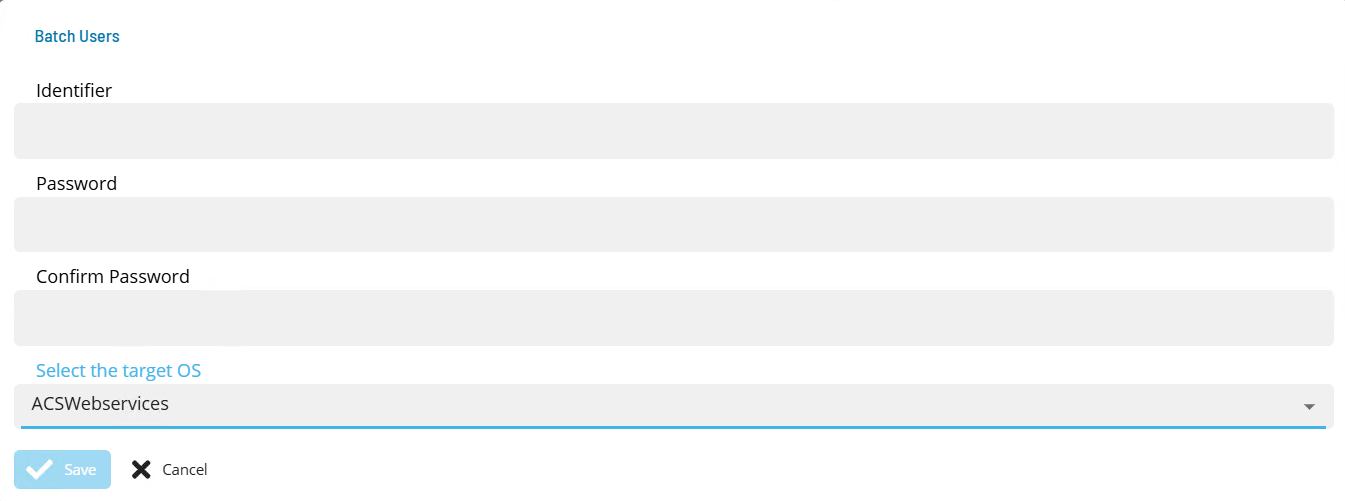
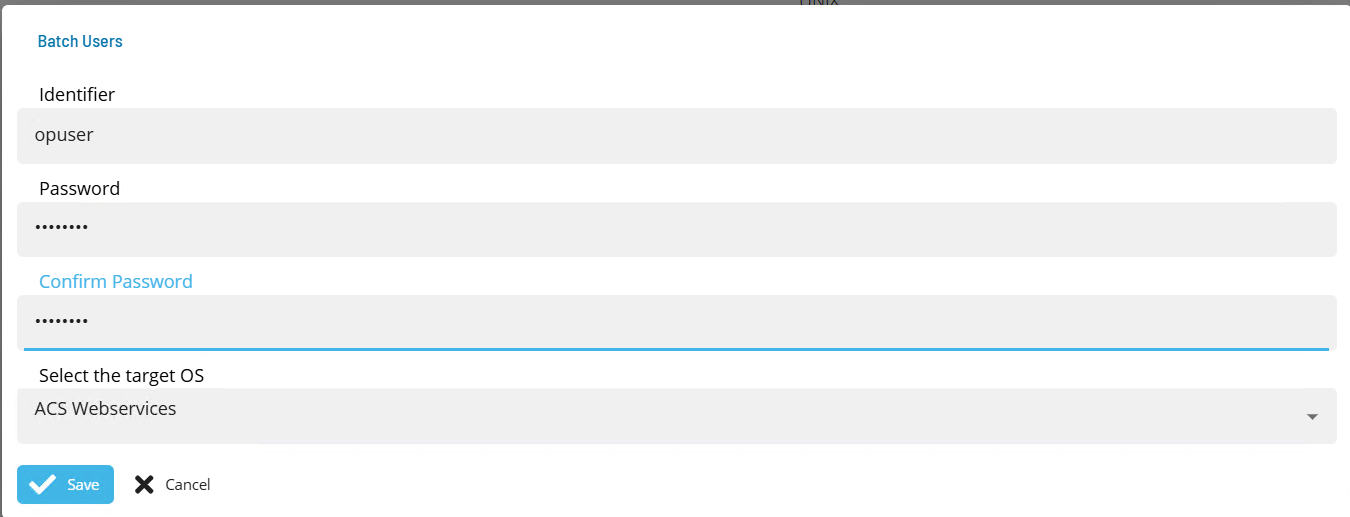
Documentation update

diff --git a/docs/ACSWebservicesOperation.md b/docs/ACSWebservicesOperation.md
@@ -1,16 +1,16 @@
 ---
 slug: '/'
-sidebar_label: 'ACSWebservices Operation'
+sidebar_label: 'ACS Webservices Operation'
 ---
 
-# ACSWebservices Operation
+# ACS Webservices Operation
 
 Once the sma.acs.ACSWebservices plugin has been registered with the OpCon system, it will be possible to perform agent and task definitions.
 All definitions can only be performed using Solution Manager.
 
-## Defining ACSWebservices Batch Users
+## Defining ACS Webservices Batch Users
 
-The ACSWebservices task types BASICTOKEN and OPCONTOKEN uses opCon Batch users to define the user information for these task types.
+The ACS Webservices task types BASICTOKEN and OPCONTOKEN uses opCon Batch users to define the user information for these task types.
 Before creating these task types, ensure that the appropriate Batch Users are created.  
 
 ![Defining a Batch User](../static/img/ws-batch-user.png)
@@ -19,12 +19,12 @@ Before creating these task types, ensure that the appropriate Batch Users are cr
 2.  From the Home page select **Library**
 3.  From the ***Security*** Menu select **Batch Users**.
 4.  Select **+Add** to add a new Batch User.
-5.  Select **ACSWebservices** from the ***Select the target OS*** drop-down list.
+5.  Select **ACS Webservices** from the ***Select the target OS*** drop-down list.
 6.  Enter the User name that will be used to create the token in the **Identifier** field.
 7.  Enter the password of the defined API User in the **Password** and **Confirm** fields.
 8.  Select **Save**.
 
-## Defining ACSWebservices connection
+## Defining ACS Webservices connection
 
 The Agent definition is defined by adding a new ACSWebservices Agent definition using Solution Manager.
 Items defined in red are required values.
@@ -37,8 +37,8 @@ Items defined in red are required values.
 4.  Select **+Add** to add a new agent definition.
 5.  Fill in the agent details
     - Insert a unique name for the connection.
-    - Select **ACSWebservices** from the **Type** drop-down list.
-    - Select **ACSWebservices Settings**
+    - Select **ACS Webservices** from the **Type** drop-down list.
+    - Select **ACS Webservices Settings**
     - In the **OpCon URL** field enter the full url for the associated OpCon Rest-API server.
     - In the **OpCon Token** field enter a valid OpCon application token that will be used to authenticate internal OpCon Rest-API requests.
     - In the **Proxy Url** field enter the full url of the Proxy Server if required when submitting url requests outside the organization.  
@@ -47,7 +47,7 @@ Items defined in red are required values.
 
 ## Defining tasks
 
-The ACSWebservices Connection supports the following task types:
+The ACS Webservices Connection supports the following task types:
 
 TaskType             | Description
 ---------------------|------------
@@ -69,7 +69,7 @@ Data is passed between tasks using schedule instance properties. The ACS environ
 ### BASICTOKEN Task
 
 The BASICTOKEN task is used to set a basic token as a schedule instance property so it can be used to provide authentication by subsequent tasks. 
-The function allows the selection of a ACSWebservices Batch User to provide the base64 encoded authentication string.   
+The function allows the selection of a ACS Webservices Batch User to provide the base64 encoded authentication string.   
 
 ![Defining a BASICTOKEN Master Job](../static/img/ws-basictoken-master-job.png)
 
@@ -80,13 +80,13 @@ The function allows the selection of a ACSWebservices Batch User to provide the 
 5.  Fill in the task details.
     - Select the **Schedule** name from the drop-down list.
     - In the **Name** field enter a unique name for the task within the schedule.
-    - Select **ACSWebservices** from the **Job Type** drop-down list.
+    - Select **ACS Webservices** from the **Job Type** drop-down list.
     - Select **BASICTOKEN** from the **Task Type** drop-down list.
     
 Enter details for Task Type **BASICTOKEN**. 
 
 1.  Select the **Task Details** button.
-2.  In the **Integration Selection** section, select the primary integration which is an ACSWebservices connection previously defined.
+2.  In the **Integration Selection** section, select the primary integration which is an ACS Webservices connection previously defined.
 3.  In the **Authentication** section
     - select a Batch User from the drop-down list.
 4.  In the **Response Variable** section
@@ -95,7 +95,7 @@ Enter details for Task Type **BASICTOKEN**.
 ### OPCONTOKEN Task
 
 The OPCONTOKEN task is used to set an OpCon token as a schedule instance property so it can be used to provide authentication by subsequent tasks. 
-The function allows the selection of a ACSWebservices Batch User to provide the OpCon encoded authentication string.   
+The function allows the selection of a ACS Webservices Batch User to provide the OpCon encoded authentication string.   
 
 ![Defining an OPCONTOKEN Master Job](../static/img/ws-opcontoken-master-job.png)
 
@@ -106,13 +106,13 @@ The function allows the selection of a ACSWebservices Batch User to provide the 
 5.  Fill in the task details.
     - Select the **Schedule** name from the drop-down list.
     - In the **Name** field enter a unique name for the task within the schedule.
-    - Select **ACSWebservices** from the **Job Type** drop-down list.
+    - Select **ACS Webservices** from the **Job Type** drop-down list.
     - Select **OPCONTOKEN** from the **Task Type** drop-down list.
     
 Enter details for Task Type **OPCONTOKEN**. 
 
 1.  Select the **Task Details** button.
-2.  In the **Integration Selection** section, select the primary integration which is an ACSWebservices connection previously defined.
+2.  In the **Integration Selection** section, select the primary integration which is an ACS Webservices connection previously defined.
 3.  In the **Authentication** section
     - In the **URL** field enter the full address of the end point (i.e. https://server:port/api/tokens). 
     - Select a Batch User from the drop-down list.
@@ -139,13 +139,13 @@ TheOAUTH2TOKEN task is used to set an OAuth2 token as a schedule instance proper
 5.  Fill in the task details.
     - Select the **Schedule** name from the drop-down list.
     - In the **Name** field enter a unique name for the task within the schedule.
-    - Select **ACSWebservices** from the **Job Type** drop-down list.
+    - Select **ACS Webservices** from the **Job Type** drop-down list.
     - Select **OAUTH2TOKEN** from the **Task Type** drop-down list.
     
 Enter details for Task Type **OAUTH2TOKEN**. 
 
 1.  Select the **Task Details** button.
-2.  In the **Integration Selection** section, select the primary integration which is an ACSWebservices connection previously defined.
+2.  In the **Integration Selection** section, select the primary integration which is an ACS Webservices connection previously defined.
     - In the **URL** field enter the full address of the end point using global properties (i.e. https://login.microsoftonline.com/[[tenantid]]/oauth2/token). 
 3.  In the **Authentication** section
     - In the **ClientId** field enter the provided client id (use a global or an encrypted global property to safe guard the client id).
@@ -183,7 +183,7 @@ ABC.
 5.  Fill in the task details.
     - Select the **Schedule** name from the drop-down list.
     - In the **Name** field enter a unique name for the task within the schedule.
-    - Select **ACSWebservices** from the **Job Type** drop-down list.
+    - Select **ACS Webservices** from the **Job Type** drop-down list.
     - Select **GET** from the **Task Type** drop-down list.
     
 Enter details for Task Type **GET**. 
@@ -191,7 +191,7 @@ Enter details for Task Type **GET**.
 ![Defining a GET Master Job](../static/img/ws-get-master-job1.png)
 
 1.  Select the **Task Details** button.
-2.  In the **Integration Selection** section, select the primary integration which is an ACSWebservices connection previously defined.
+2.  In the **Integration Selection** section, select the primary integration which is an ACS Webservices connection previously defined.
 3.  In the **Task Configuration** section
     - In **Variables** define name value pairs that can be used for substitution in url and message bodies. 
     - In the **Url** field enter the full address of the end point (i.e. https://server:port/api/tokens). 
@@ -238,7 +238,7 @@ task should be in a 'hold' state.  The remote system would then include the capa
 5.  Fill in the task details.
     - Select the **Schedule** name from the drop-down list.
     - In the **Name** field enter a unique name for the task within the schedule.
-    - Select **ACSWebservices** from the **Job Type** drop-down list.
+    - Select **ACS Webservices** from the **Job Type** drop-down list.
     - Select **POST** from the **Task Type** drop-down list.
     
 Enter details for Task Type **POST**. 
@@ -246,7 +246,7 @@ Enter details for Task Type **POST**.
 ![Defining a POST Master Job](../static/img/ws-post-master-job1.png)
 
 1.  Select the **Task Details** button.
-2.  In the **Integration Selection** section, select the primary integration which is an ACSWebservices connection previously defined.
+2.  In the **Integration Selection** section, select the primary integration which is an ACS Webservices connection previously defined.
 3.  In the **Task Configuration** section
     - In **Variables** define name value pairs that can be used for substitution in url and message bodies. 
     - In the **Url** field enter the full address of the end point (i.e. https://server:port/api/tokens). 
@@ -291,7 +291,7 @@ ABC.
 5.  Fill in the task details.
     - Select the **Schedule** name from the drop-down list.
     - In the **Name** field enter a unique name for the task within the schedule.
-    - Select **ACSWebservices** from the **Job Type** drop-down list.
+    - Select **ACS Webservices** from the **Job Type** drop-down list.
     - Select **PUT** from the **Task Type** drop-down list.
     
 Enter details for Task Type **PUT**. 
@@ -299,7 +299,7 @@ Enter details for Task Type **PUT**.
 ![Defining a PUT Master Job](../static/img/ws-put-master-job1.png)
 
 1.  Select the **Task Details** button.
-2.  In the **Integration Selection** section, select the primary integration which is an ACSWebservices connection previously defined.
+2.  In the **Integration Selection** section, select the primary integration which is an ACS Webservices connection previously defined.
 3.  In the **Task Configuration** section
     - In **Variables** define name value pairs that can be used for substitution in url and message bodies. 
     - In the **Url** field enter the full address of the end point (i.e. https://server:port/api/tokens). 
@@ -344,15 +344,15 @@ ABC.
 5.  Fill in the task details.
     - Select the **Schedule** name from the drop-down list.
     - In the **Name** field enter a unique name for the task within the schedule.
-    - Select **ACSWebservices** from the **Job Type** drop-down list.
-    - Select **PTCH** from the **Task Type** drop-down list.
+    - Select **AC SWebservices** from the **Job Type** drop-down list.
+    - Select **PATCH** from the **Task Type** drop-down list.
     
 Enter details for Task Type **PATCH**. 
 
 ![Defining a PATCH Master Job](../static/img/ws-patch-master-job1.png)
 
 1.  Select the **Task Details** button.
-2.  In the **Integration Selection** section, select the primary integration which is an ACSWebservices connection previously defined.
+2.  In the **Integration Selection** section, select the primary integration which is an ACS Webservices connection previously defined.
 3.  In the **Task Configuration** section
     - In **Variables** define name value pairs that can be used for substitution in url and message bodies. 
     - In the **Url** field enter the full address of the end point (i.e. https://server:port/api/tokens). 
@@ -392,7 +392,7 @@ The DELETE task should have a dependency set on the authentication task.
 5.  Fill in the task details.
     - Select the **Schedule** name from the drop-down list.
     - In the **Name** field enter a unique name for the task within the schedule.
-    - Select **ACSWebservices** from the **Job Type** drop-down list.
+    - Select **ACS Webservices** from the **Job Type** drop-down list.
     - Select **DELETE** from the **Task Type** drop-down list.
     
 Enter details for Task Type **DELETE**. 
@@ -400,7 +400,7 @@ Enter details for Task Type **DELETE**.
 ![Defining a DELETE Master Job](../static/img/ws-delete-master-job.png)
 
 1.  Select the **Task Details** button.
-2.  In the **Integration Selection** section, select the primary integration which is an ACSWebservices connection previously defined.
+2.  In the **Integration Selection** section, select the primary integration which is an ACS Webservices connection previously defined.
 3.  In the **Task Configuration** section
     - In **Variables** define name value pairs that can be used for substitution in url and message bodies. Defining SERVER=DESKTOPA will
     replace the value SERVER in the url and message body with value DESKTOPA.  

diff --git a/docs/ACSAzureWebserviceOperation.md b/docs/ACSAzureWebserviceOperation.md
@@ -3,12 +3,12 @@ slug: '/'
 sidebar_label: 'ACSAzureWebservices Operation'
 ---
 
-# ACSAzureWebservices Operation
+# ACS AzureWebservices Operation
 
 Once the sma.acs.ACSAzureWebservices plugin has been registered with the OpCon system, it will be possible to perform agent and task definitions.
 All definitions can only be performed using Solution Manager.
 
-## Defining ACSAzureWebservices connection
+## Defining ACS AzureWebservices connection
 
 The Agent definition is defined by adding a new ACSAzureWebservices Agent definition using Solution Manager.
 Items defined in red are required values.
@@ -21,15 +21,15 @@ Items defined in red are required values.
 4.  Select **+Add** to add a new agent definition.
 5.  Fill in the agent details
     - Insert a unique name for the connection.
-    - Select **ACSAzureWebservices** from the **Type** drop-down list.
-    - Select **ACSAzureWebservices Settings**
+    - Select **ACS AzureWebservices** from the **Type** drop-down list.
+    - Select **ACS AzureWebservices Settings**
     - The **Azure URL** field contains a default value ***azure.status.microsoft/en-us/status*** which is used as a heartbeat to check if the Azure environment is available. 
 6.  Save the definition changes. 
 7.  Start the connection by selecting the **Change Communication Status** button and selecting **Enable Full Comm.**. 
 
 ## Defining tasks
 
-The ACSAzureWebservices Connection supports the following task types:
+The ACS AzureWebservices Connection supports the following task types:
 
 TaskType             | Description
 ---------------------|------------
@@ -56,7 +56,7 @@ The GetOAuth2Token task is used to get an OAuth2 token and set it as a schedule 
 5.  Fill in the task details.
     - Select the **Schedule** name from the drop-down list.
     - In the **Name** field enter a unique name for the task within the schedule.
-    - Select **ACSAzureWebservices** from the **Job Type** drop-down list.
+    - Select **ACS AzureWebservices** from the **Job Type** drop-down list.
     - Select **GetOAuth2Token** from the **Task Type** drop-down list.
     
 Enter details for Task Type **GetOAuth2Token**. 
@@ -91,13 +91,13 @@ The GetPatToken task is used to set a PAT token as a schedule instance property 
 5.  Fill in the task details.
     - Select the **Schedule** name from the drop-down list.
     - In the **Name** field enter a unique name for the task within the schedule.
-    - Select **ACSAzureWebservices** from the **Job Type** drop-down list.
+    - Select **ACS AzureWebservices** from the **Job Type** drop-down list.
     - Select **GetPatToken** from the **Task Type** drop-down list.
     
 Enter details for Task Type **GetPatToken**. 
 
 1.  Select the **Task Details** button.
-2.  In the **Integration Selection** section, select the primary integration which is an ACSAzureWebservices connection previously defined.
+2.  In the **Integration Selection** section, select the primary integration which is an ACS AzureWebservices connection previously defined.
 3.  In the **Authentication** section, enter a PAT (Personal Action Token) retrieved from the Azure DevOps environment (see https://learn.microsoft.com/en-us/azure/devops/organizations/accounts/use-personal-access-tokens-to-authenticate?view=azure-devops&tabs=Windows for information on how to create a PAT).
 4.  In the **Response Variable** section, define the variable that will contain the PAT token. The format is name=value where the name part will be the schedule instance property name, the value part is ignored. 
 
@@ -115,13 +115,13 @@ A Job Dependency should be defined on a previous **GetPatToken** task.
 5.  Fill in the task details.
     - Select the **Schedule** name from the drop-down list.
     - In the **Name** field enter a unique name for the task within the schedule.
-    - Select **ACSAzureWebservices** from the **Job Type** drop-down list.
+    - Select **ACS AzureWebservices** from the **Job Type** drop-down list.
     - Select **RunDevOpsPipeline** from the **Task Type** drop-down list.
     
 Enter details for Task Type **RunDevOpsPipeline**. Fields marked in red must be provided.
 
 1.  Select the **Task Details** button.
-2.  In the **Integration Selection** section, select the primary integration which is an ACSAzureWebservices connection previously defined.
+2.  In the **Integration Selection** section, select the primary integration which is an ACS AzureWebservices connection previously defined.
 3.  In the **Job Configuration** section enter the following information
     - In the **Azure Url** field enter ***dev.azure.com***.
     - In the **Organization** field enter the name of the DevOps Organization.
@@ -154,13 +154,13 @@ A Job Dependency should be defined on a previous **GetOAuth2Token** task.
 5.  Fill in the task details.
     - Select the **Schedule** name from the drop-down list.
     - In the **Name** field enter a unique name for the task within the schedule.
-    - Select **ACSAzureWebservices** from the **Job Type** drop-down list.
+    - Select **ACS AzureWebservices** from the **Job Type** drop-down list.
     - Select **DownloadBlobStorage** from the **Task Type** drop-down list.
     
 Enter details for Task Type **UploadBlobStorage**. Fields marked in red must be provided.
 
 1.  Select the **Task Details** button.
-2.  In the **Integration Selection** section, select the primary integration which is an ACSAzureWebservices connection previously defined.
+2.  In the **Integration Selection** section, select the primary integration which is an ACS AzureWebservices connection previously defined.
 3.  In the **DownloadAzureBlob** section enter the following information
     - In the **Storage Account** field enter the name of the storage account.
     - In the **Path** field enter the path of the file to be downloaded from the storage area. The value consists of
@@ -184,13 +184,13 @@ A Job Dependency should be defined on a previous **GetOAuth2Token** task.
 5.  Fill in the task details.
     - Select the **Schedule** name from the drop-down list.
     - In the **Name** field enter a unique name for the task within the schedule.
-    - Select **ACSAzureWebservices** from the **Job Type** drop-down list.
+    - Select **ACS AzureWebservices** from the **Job Type** drop-down list.
     - Select **UploadBlobStorage** from the **Task Type** drop-down list.
     
 Enter details for Task Type **UploadBlobStorage**. Fields marked in red must be provided.
 
 1.  Select the **Task Details** button.
-2.  In the **Integration Selection** section, select the primary integration which is an ACSAzureWebservices connection previously defined.
+2.  In the **Integration Selection** section, select the primary integration which is an ACS AzureWebservices connection previously defined.
 3.  In the **UploadAzureBlob** section enter the following information
     - In the **Storage Account** field enter the name of the storage account.
     - In the **Path** field enter the path where the file must be placed within the storage area. The value consists of

diff --git a/docs/index.md b/docs/index.md
@@ -7,7 +7,7 @@ sidebar_label: 'WebServices ACS'
 
 Latest version is 25.0.0
 
-WebServices ACS provides direct Rest-API access to applications without the need for the installation of additional components.
+ACS WebServices provides direct Rest-API access to applications without the need for the installation of additional components.
 It is part of the ACS (Agentless Connector System) suite of products. 
 
 ACS is a new OpCon Agent type that provides a framework for agent development. It is an internal component provided by the SMANetCom module. 
@@ -48,12 +48,12 @@ Examaples
 
 ## Implementation
 
-WebService ACS comprises of two separate environments ACSWebservices and ACSAzureWebservices.
+WebService ACS comprises of two separate environments ACS Webservices and ACS AzureWebservices.
 
 Provides jobtypes that can be used to create task definitions. Each jobtype is a separate OpCon task and information is passed between tasks using the
 capabilities of the ACS framework (information passed between tasks are saved as Schedule Instance properties).  
 
-## ACSAzureWebservices
+## ACS AzureWebservices
 Provides defined integrations with the MicroSoft Azure environment. Includes authentication tasks and tasks to start DevOps pipelines and Upload and Download files to/from Azure storage.
 The following job-types are currently available.
 
@@ -65,7 +65,7 @@ RunDevOpsPipeline    | Starts an Azure DevOps pipeline and monitors for completi
 DownloadBlobStorage  | Download a file from Azure Blob Storage
 UploadBlobStorage    | Upload a file to Azure Blob Storage
 
-## ACSWebservices
+## ACS Webservices
 Provides generic implementations for authentication and standard GET, POST, PUT, PATCH and DELETE functions.
 
 JobType              | Description
